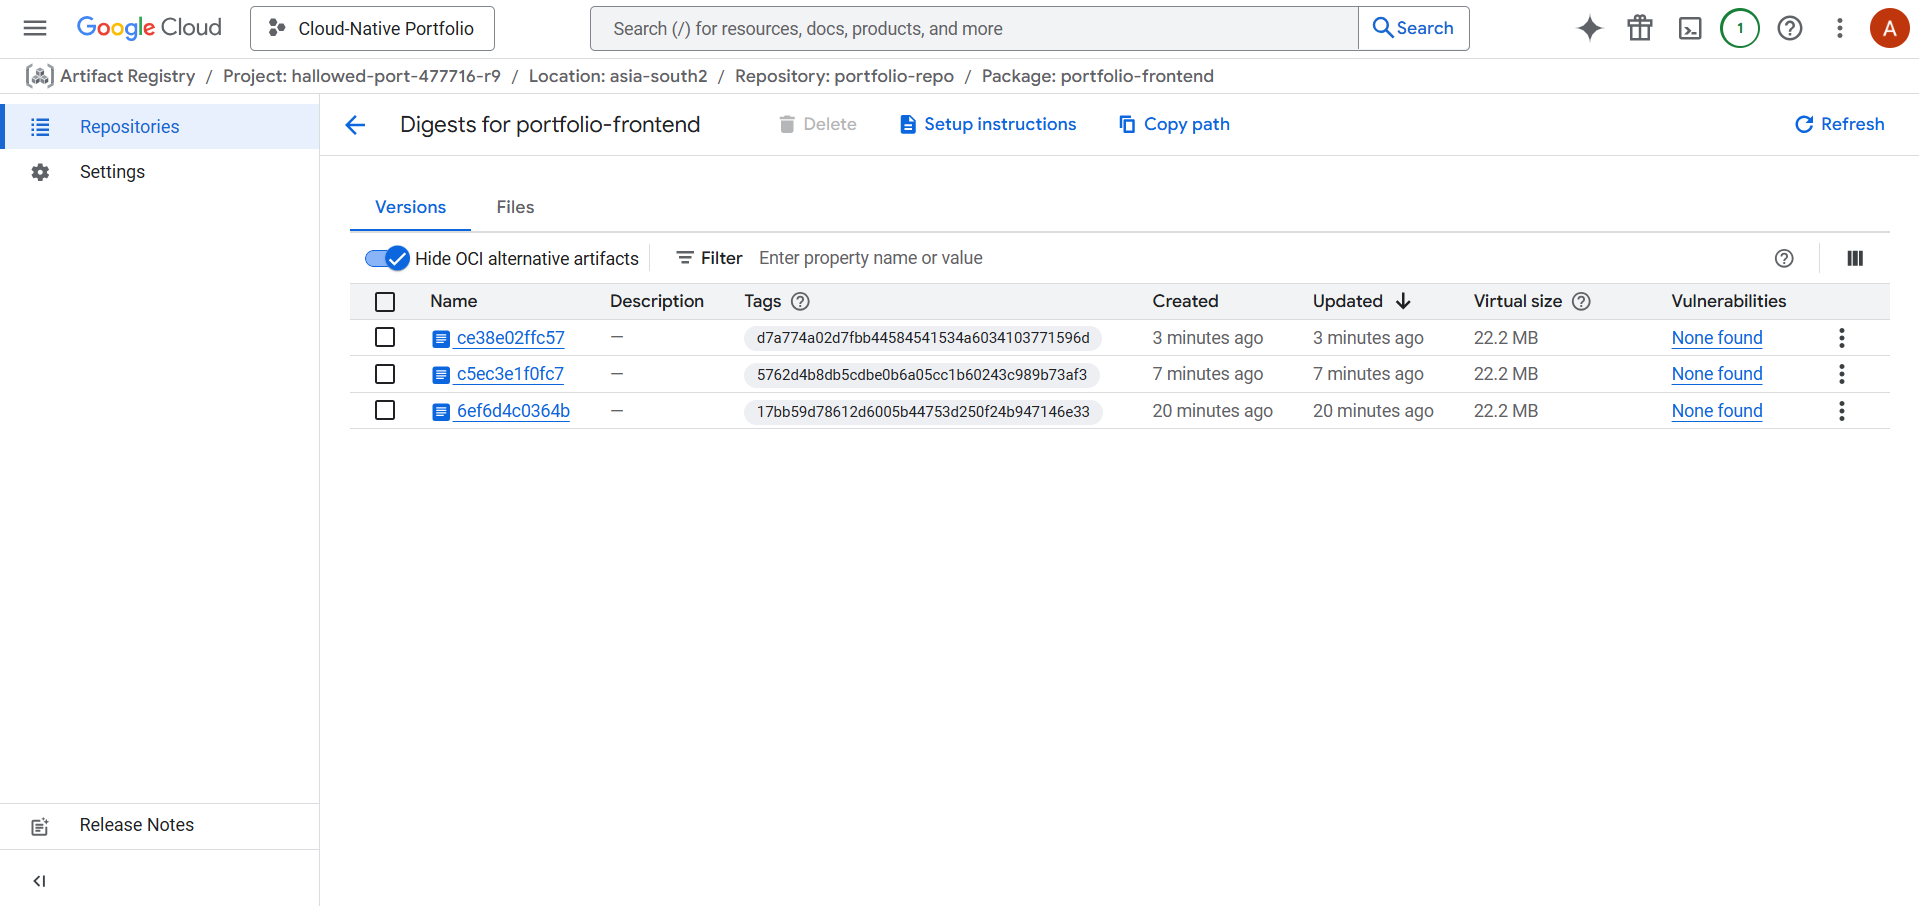
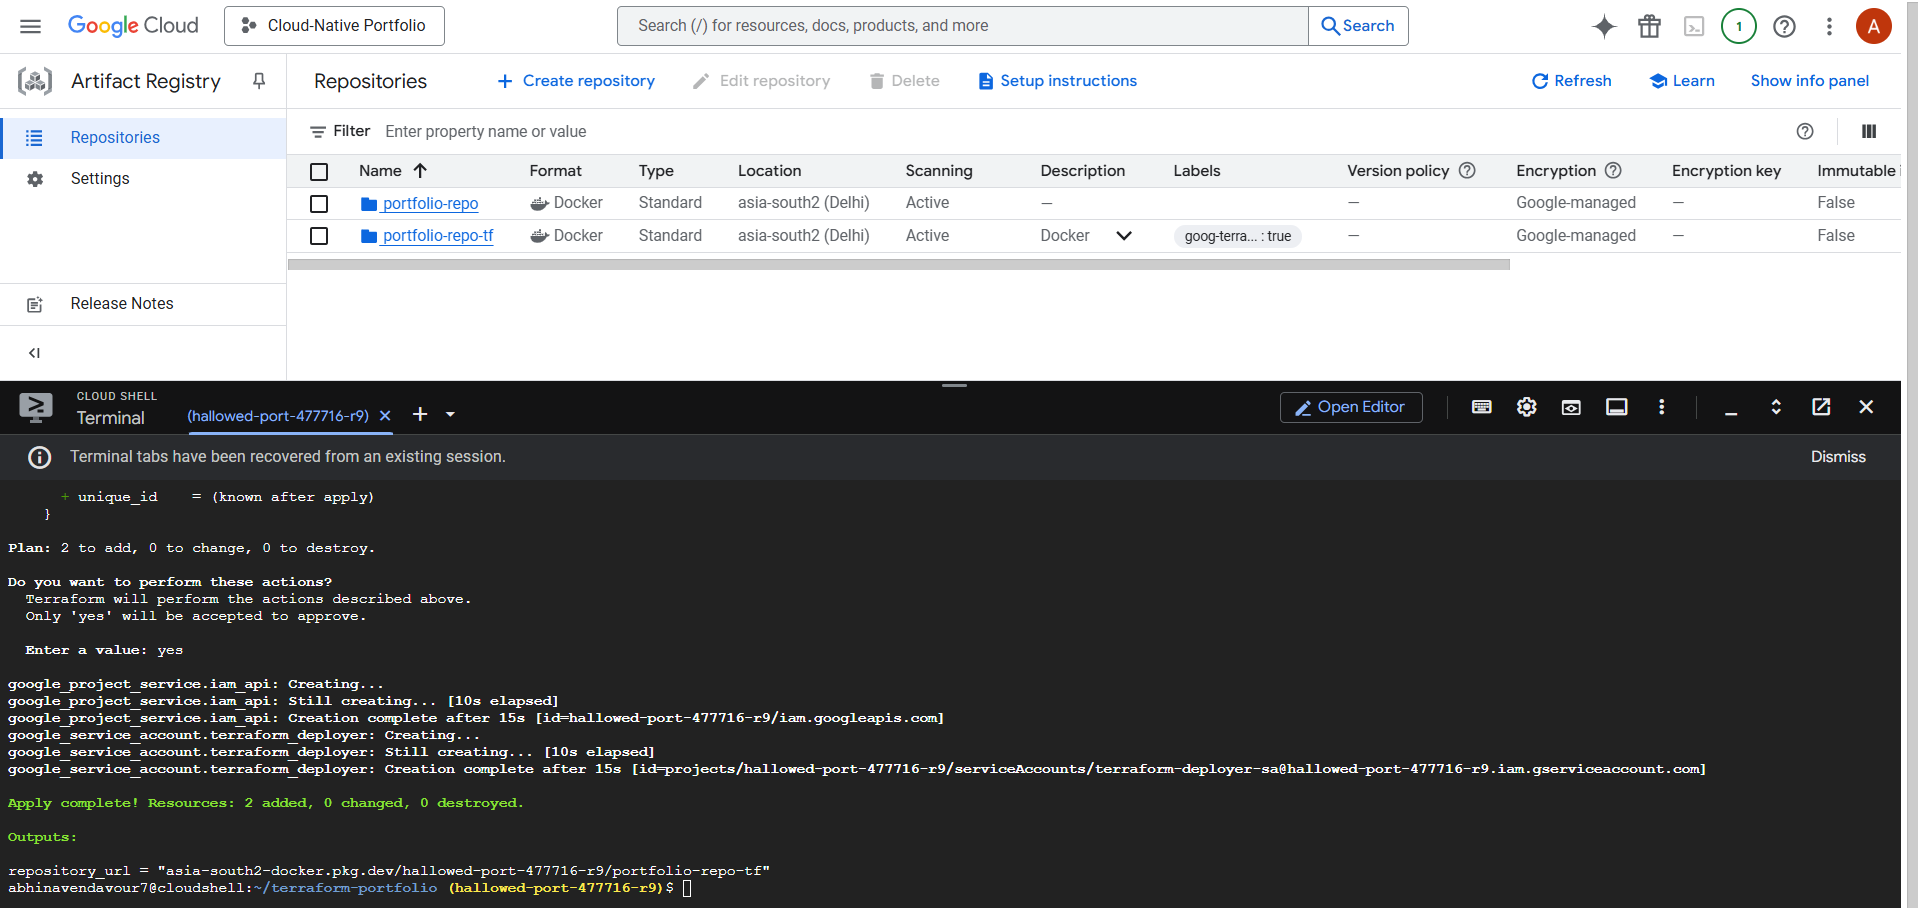
Latest Update

diff --git a/README.md b/README.md
@@ -1,12 +1,14 @@
 # Cloud-Native Polyglot Portfolio (GCP + DevOps)
 
-    
+\<div align="center"\>
+
+\</div\>
 
 ## 📌 Project Overview
 
 This repository hosts a **Cloud-Native Portfolio Website** architected to demonstrate modern **DevOps** and **Site Reliability Engineering (SRE)** practices. Unlike standard static deployments, this project leverages a production-grade CI/CD pipeline, immutable infrastructure using Docker, and automated provisioning via Terraform on **Google Cloud Platform (GCP)**.
 
-The application itself follows a **Polyglot Architecture**, featuring a **React + TypeScript** frontend served via **Nginx** and integrated with a **Supabase** backend for dynamic content management.
+The application follows a **Polyglot Architecture**, featuring a **React + TypeScript** frontend served via **Nginx** and integrated with a **Supabase** backend for dynamic content management.
 
 -----
 
@@ -25,6 +27,7 @@ The system utilizes a serverless microservices pattern designed for high availab
 | **Infrastructure as Code** | Terraform | Programmatic provisioning of GCP Artifact Registry and IAM Roles. |
 | **CI/CD** | GitHub Actions | Automated build, test, and deployment workflows. |
 | **Observability** | Google Cloud Monitoring | Real-time traffic analysis and latency alerting policies. |
+| **Security** | Container Analysis API | Automated vulnerability scanning of Docker images. |
 | **Region** | `asia-south2` (Delhi) | Low-latency hosting for the target demographic. |
 
 -----
@@ -45,25 +48,24 @@ This project goes beyond simple hosting by implementing specific Cloud Native pr
 
   * **Procedure:** Transitioned from legacy Container Registry to the modern **Artifact Registry**.
   * **Function:** Acts as a secure, private warehouse for Docker images.
-  * **Region Locking:** All artifacts are stored strictly in `asia-south2` (Delhi) to ensure data sovereignty and low latency.
+  * **Region Locking:** All artifacts are stored strictly in `asia-south2` (Delhi) to ensure data sovereignty.
+  * **Parallel Infrastructure:** Maintained two repositories—`portfolio-repo` (Manual Production) and `portfolio-repo-tf` (Terraform Automation)—to demonstrate both manual management and IaC capabilities side-by-side.
 
-### **3. IAM & Least Privilege Security**
+### **3. Security & Vulnerability Scanning**
 
-  * **Procedure:** Implemented strict IAM policies using a dedicated Service Account (`github-actions-deployer`) instead of using Owner permissions.
-  * **Roles Assigned:**
-      * `roles/artifactregistry.writer`: Allows pushing images only.
-      * `roles/run.admin`: Grants permission to update the specific Cloud Run service.
-      * `roles/iam.serviceAccountUser`: Allows the pipeline to "act as" the service account during deployment.
+  * **Procedure:** Enabled **Container Analysis API** and **Container Scanning API** to automatically scan Docker images for Common Vulnerabilities and Exposures (CVEs).
+  * **Result:** Achieved a **"None found"** vulnerability status for production images.
+  * **IAM Policy:** Implemented strict policies using a dedicated Service Account (`github-actions-deployer`) with specific roles (`roles/artifactregistry.writer`, `roles/run.admin`), enforcing the Principle of Least Privilege.
 
 ### **4. Traffic Management (Canary Deployments)**
 
   * **Procedure:** Utilized Cloud Run's traffic splitting feature to manage "Revisions."
-  * **Strategy:** Implemented capacity for **Blue/Green deployments**—routing 90% of traffic to the stable revision and 10% to the new revision for A/B testing before full rollout.
+  * **Strategy:** Implemented capacity for **Blue/Green deployments**—routing 90% of traffic to the stable revision and 10% to the new revision for A/B testing.
 
 ### **5. Observability & Monitoring**
 
   * **Procedure:** Implemented **Google Cloud Monitoring** (Stackdriver) to track application health.
-  * **Metrics:** Configured custom dashboards to visualize `Request Count` and `Container Startup Latency`.
+  * **Metrics:** Created custom dashboards (`Portfolio Live Ops`) to visualize `Request Count` and `Container Startup Latency` under load.
   * **Alerting:** Set up an Alert Policy to trigger email notifications if p99 latency exceeds **1000ms** for a duration of 1 minute.
 
 -----
@@ -79,7 +81,14 @@ The application is packaged using a **Multi-Stage Docker Build** to optimize sec
 
 ### **2. Infrastructure as Code (Terraform)**
 
-All critical cloud resources were provisioned using Terraform (`/terraform-portfolio`), ensuring the infrastructure is reproducible and version-controlled.
+All critical cloud resources were provisioned using Terraform (`/terraform-portfolio`), ensuring the infrastructure is reproducible.
+
+**Key Challenges Solved:**
+
+  * **API Dependencies:** Manually handled the "Chicken and Egg" problem by enabling the **Cloud Resource Manager API** (`cloudresourcemanager.googleapis.com`) first, allowing Terraform to then enable `iam.googleapis.com`, `run.googleapis.com`, and `artifactregistry.googleapis.com` automatically.
+  * **Dependency Chaining:** Used `depends_on` blocks to ensure APIs were fully active before attempting to create Service Accounts, preventing 403 Forbidden errors.
+
+<!-- end list -->
 
 ```hcl
 # Example: Creating the Artifact Registry via Code
@@ -87,6 +96,7 @@ resource "google_artifact_registry_repository" "my_repo" {
   location      = "asia-south2"
   repository_id = "portfolio-repo-tf"
   format        = "DOCKER"
+  depends_on    = [google_project_service.artifact_registry_api]
 }
 ```
 
@@ -98,6 +108,49 @@ A fully automated pipeline (`.github/workflows/deploy.yml`) triggers on every pu
 2.  **Build:** Injects secrets via `--build-arg` and builds the Docker container.
 3.  **Push:** Uploads the tagged image to the private Google Artifact Registry.
 4.  **Deploy:** Updates Cloud Run with the new image revision and routes traffic.
+
+-----
+
+## 📸 Project Screenshots
+
+\<table align="center"\>
+\<tr\>
+\<td align="center"\>\<b\>Live Deployment (Cloud Run)\</b\>\</td\>
+\<td align="center"\>\<b\>CI/CD Pipeline Execution\</b\>\</td\>
+\</tr\>
+\<tr\>
+\<td\>\<img src="screenshots/webpage.jpg" width="400" alt="Live Site"\>\</td\>
+\<td\>\<img src="screenshots/pipeline.png" width="400" alt="Pipeline"\>\</td\>
+\</tr\>
+\<tr\>
+\<td align="center"\>\<i\>Hosted on Google Cloud Run (asia-south2)\</i\>\</td\>
+\<td align="center"\>\<i\>Automated Build & Deploy Workflow\</i\>\</td\>
+\</tr\>
+\<tr\>
+\<td align="center"\>\<b\>Infrastructure as Code (Terraform)\</b\>\</td\>
+\<td align="center"\>\<b\>Parallel Artifact Registries\</b\>\</td\>
+\</tr\>
+\<tr\>
+\<td\>\<img src="screenshots/GCP\_Terraform.png" width="400" alt="Terraform"\>\</td\>
+\<td\>\<img src="screenshots/GCP\_Artifact\_Registry.png" width="400" alt="Registry"\>\</td\>
+\</tr\>
+\<tr\>
+\<td align="center"\>\<i\>Successful provisioning of IaC Resources\</i\>\</td\>
+\<td align="center"\>\<i\>Manual vs. Terraform Managed Infrastructure\</i\>\</td\>
+\</tr\>
+\<tr\>
+\<td align="center"\>\<b\>Operations Dashboard\</b\>\</td\>
+\<td align="center"\>\<b\>Security Scanning\</b\>\</td\>
+\</tr\>
+\<tr\>
+\<td\>\<img src="screenshots/GCP\_Monitoring.png" width="400" alt="Monitoring"\>\</td\>
+\<td\>\<img src="screenshots/GCP\_Artifact\_Registry.png" width="400" alt="Security"\>\</td\>
+\</tr\>
+\<tr\>
+\<td align="center"\>\<i\>Real-time Latency & Traffic Analysis\</i\>\</td\>
+\<td align="center"\>\<i\>Vulnerability Scanning: None Found\</i\>\</td\>
+\</tr\>
+\</table\>
 
 -----
 
@@ -153,4 +206,6 @@ Distributed under the MIT License. See `LICENSE` for more information.
 
 -----
 
-*Built by Abhinav - Cloud Engineer*
+\<div align="center"\>
+\<i\>Built by Abhinav - Cloud Engineer\</i\>
+\</div\>
